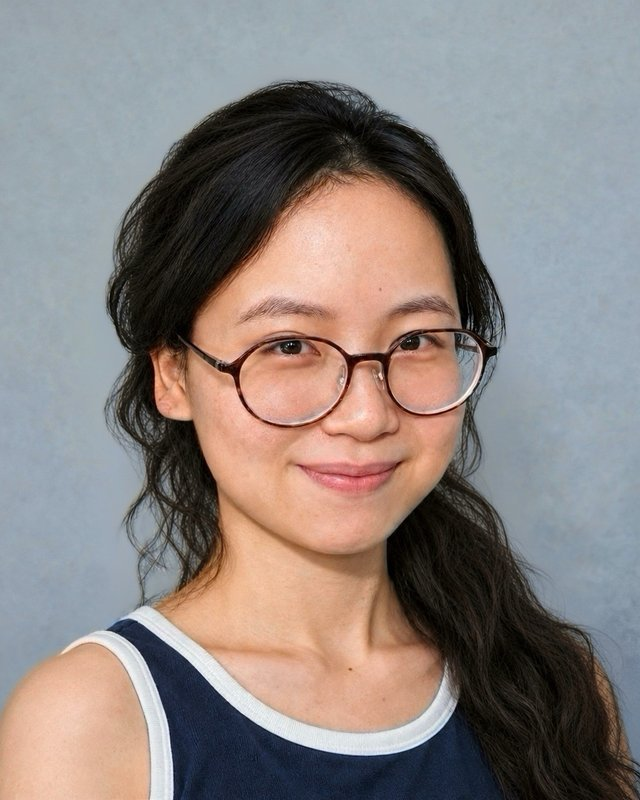
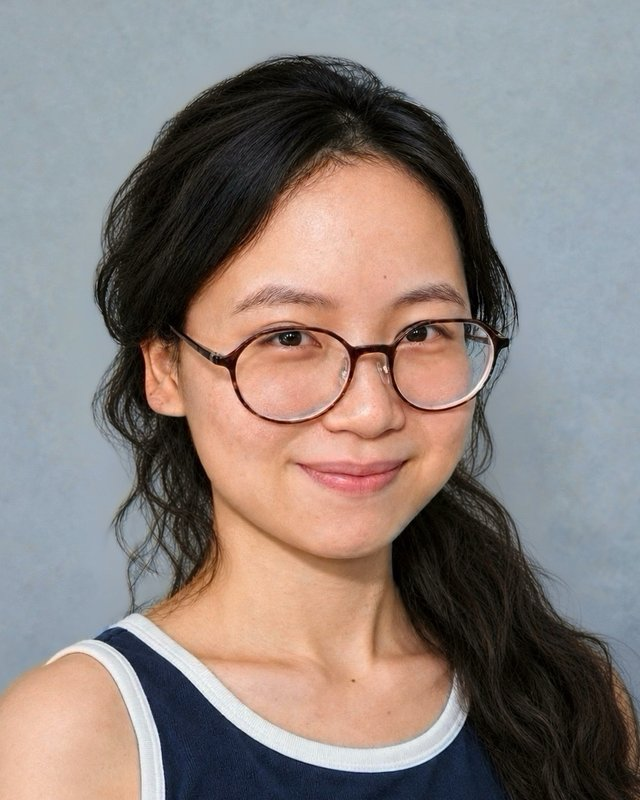
Add files via upload

diff --git a/index.html b/index.html
@@ -118,7 +118,7 @@
 <main>
 
   <div class="header">
-    <img class="photo" src="photo.jpg?v=7" alt="Photo of Jiayi Sun">
+    <img class="photo" src="photo.jpg?v=10" alt="Photo of Jiayi Sun">
     <div class="header-text">
       <h1>Jiayi Sun</h1>
       <p class="role">M.S. in Economics &amp; Computation, Duke University</p>
@@ -146,7 +146,7 @@
   </p>
 
   <h2>Research interests</h2>
-  <p><span class="kw-label">Substantive:</span>
+  <p><span class="kw-label">Substantive Topics:</span>
     Recommender systems, generative AI, consumer preferences, product
     differentiation, firm innovation.</p>
   <p><span class="kw-label">Methods:</span>
